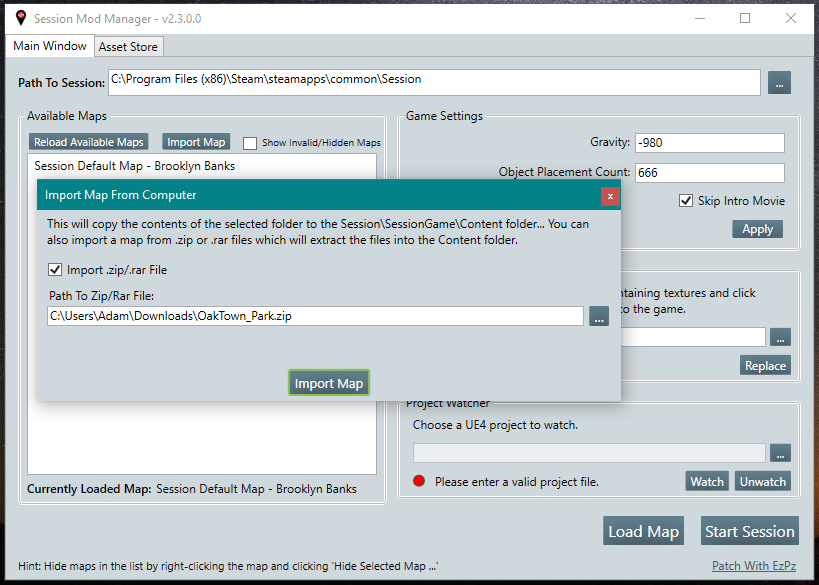
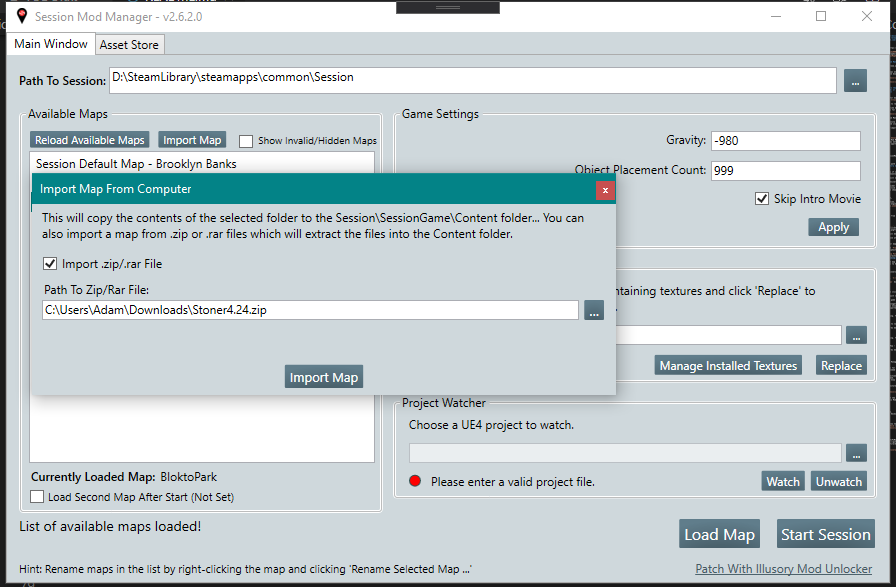
chore: update readme
- update to reflect 2.6.X changes

Changed region(s): [[0.0, 0.0, 1.0, 1.0]]

diff --git a/README.md b/README.md
@@ -15,7 +15,7 @@ This is a Desktop application to easily mod Session and install custom maps and 
 ### **If you are having any issues please see [this FAQ Wiki provided here thanks to dga711 & others](https://github.com/rodriada000/SessionMapSwitcher/wiki/Issues-FAQ) or [view this tutorial video by Redgouf.](https://www.youtube.com/watch?v=EjqcErdS0jg)**
 
 ### Features
-* Mod Manager can download the required patch (thanks to dga711) for Session to play custom modded maps and have custom textures within minutes.
+* Mod Manager can download the required patch (thanks to dga711/GHFear) for Session to play custom modded maps and have custom textures within minutes. (`Patch With Illusory Mod Unlocker` button)
 * Easily load custom maps and switch between maps in-game without having to restart the game everytime you want to play a new map.
 * Use the Asset Store easily download dozens of maps and custom textues like decks, wheels, shirts, decks, etc. Mod Manager installs the downloaded assets in minutes for you, No more fiddling with copying & deleting files from folders.
 <img src="https://github.com/rodriada000/SessionMapSwitcher/blob/master/docs/images/asset_store_demo.gif?raw=true" width="90%">
@@ -38,13 +38,18 @@ _Skip this if you already patched/unpacked the game._
 4. Set the `Path To Session` by clicking the `...` button or pasting the path and pressing `Enter` key. **The path should be the top level folder of the game directory e.g. `C:\Program Files (x86)\Steam\steamapps\common\Session`.**
 
 > Note: The application will try to get the path to Session automatically if it has not been set.
-5. Click `Patch With EzPz` and you will be prompted to download the required files to patch the game.
+5. Click `Patch With Illusory Mod Unlocker` and you will be prompted to download the required file to patch the game.
+> Note: If you already have the mod unlocker program installed then SMM will open it instead.
 
-> Note: If the program is not running as Administrator then it will ask you to restart the program as administrator first to ensure the patching process completes succesfully.
+6. Mod Manager will open a web browser so you can download the Illusory Universal Mod Unlocker ([or you can download it from here](https://illusory.dev/#))
+7. After it finishes downloading, run the setup.exe and then the mod unlocker program will open.
+8. Set the path to be `...\Session\SessionGame\Binaries\Win64` and then click `patch`
+> Note: This path is slightly different from the one set in SMM. The game should now be patched and you can close the mod unlocker program.\
 
-6. Mod Manager will download and then open Session EzPz Mod. When this window opens click `Patch` and close the window. 
-7. Mod Manager will output the status of the patching process so you know when it is complete. After that you can play custom maps and replace textures.
-8. (Optional) Click `Apply` under Game Settings in Mod Manager to download the required files for modifying the object count. If unreal engine is already installed on your computer then it will only have to download the `crypto.json` file to unpack a specific file from the game
+### Modify Object Placement Count
+_This feature allows you to change how many objects you can place in-game_
+
+When you Click `Apply` under Game Settings in Mod Manager for the first time, it will prompt you to download the required files for modifying the object count. If unreal engine is already installed on your computer then it will only have to download the `crypto.json` file to unpack a specific file from the game
 
 
 ### Adding Custom Maps to Play
@@ -55,7 +60,7 @@ _This is the recommended way to import maps into Session._
 1. Inside Mod Manager click `Asset Store` or  `Import Map > From Online ...`.
 2. The Asset Store will open where you can choose what maps to download ![](https://github.com/rodriada000/SessionMapSwitcher/blob/master/docs/images/app_import_online.png?raw=true "Asset Store Window")
 3. Select a map and click `Install Map` to start downloading it. There will be download progress in the bottom left corner.
-> NOTE: You can browse other assets while a map is downloading/installing but you can only install one asset at a time.
+> NOTE: You can queue asset downloads but it will only download/install one at a time.
 
 #### From Computer
 _Use this option when downloading custom maps from your web browser or for map creators that are working on maps._
@@ -75,7 +80,8 @@ _This is the final way to add custom maps and is not recommended for beginners. 
 ### Loading a Custom Map To Play
 1. Select a modded map from the Available Maps list (_you can also double click the map in the list to load it._).
 2. Before starting the game, change any game settings like gravity _(default value is -980)_ or number of objects you can place down.  
-3. Click `Start Session` (_this will load the selected map and save your game settings before starting the game_).
+3. _(Optional)_ Check the `Load Second Map After Start` option so your selected map will be loaded if you go back to the apartment
+4. Click `Start Session` (_this will load the selected map and save your game settings before starting the game_).
 > NOTE: When you go to the apartment in-game you will have to open Mod Manager and load the custom map again (even if you are not switching to a new map). This is to ensure the custom map is loaded instead of the original Brooklyn Banks map when you leave the apartment. 
 
 
@@ -116,6 +122,7 @@ _This assumes you already patched/unpacked the game and have Session Mod Manager
 
 
 ### Using the Asset Store
+_The asset store is curated by the community. You can create a catalog that lists all your available mods to download and can share that catalog with others._
 1. Click `Asset Store` tab at the top to switch to the Asset Store window.
 2. Click the checkboxes to select which categories you want to view e.g. Decks, Wheels, etc.
 3. Select an asset in the list to see the description and preview image
@@ -125,10 +132,15 @@ _This assumes you already patched/unpacked the game and have Session Mod Manager
 4. Click `Install Asset` in bottom right corner to download/install the new texture _(depending on the asset selected the install button text will change e.g. `Install Deck`)_.
 <img src="https://github.com/rodriada000/SessionMapSwitcher/blob/master/docs/images/asset_store_demo.gif?raw=true" width="90%">
 
-
+#### Adding a Catalog
+_Use the `Manage Catalogs` button on the asset store tab to add and remove catalogs from the community._
+1. Click `Asset Store` tab at the top to switch to the Asset Store window.
+2. Click `Manage Catalogs` button to open the manage catalog window.
+3. Click `Add Catalog` and then paste the catalog url you found into the textbox that appears. Then click `Confirm`
+> NOTE: Here is an example of a catalog url: https://raw.githubusercontent.com/rodriada000/SessionCustomMapReleases/master/DefaultSMMCatalog.json 
 
 ## Credits
+* Thanks to [Illusory Modding](https://discord.gg/3JAe2K) for the [Universal Mod Unlocker](https://illusory.dev/)
 * Thanks to @dga711 for the [EzPz Mod](https://github.com/dga711/SessionEzPzMod)
-* Thanks to @Gabisonfire for contributing to the [version updater](https://github.com/Gabisonfire/avantgarde-lib) and [asset store](https://github.com/Gabisonfire/SessionAssetStore) and also hosting the asset files.
 * Thanks to Redgouf for creating an in-depth tutorial video on the tool
-* Thanks to [Session modding community](https://discord.gg/XBz5s7) & [Illusory Modding](https://discord.gg/3JAe2K)
+* @Gabisonfire for contributing to the [app version updater](https://github.com/Gabisonfire/avantgarde-lib)
